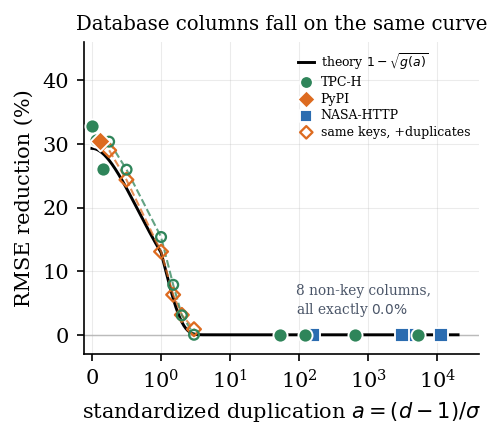
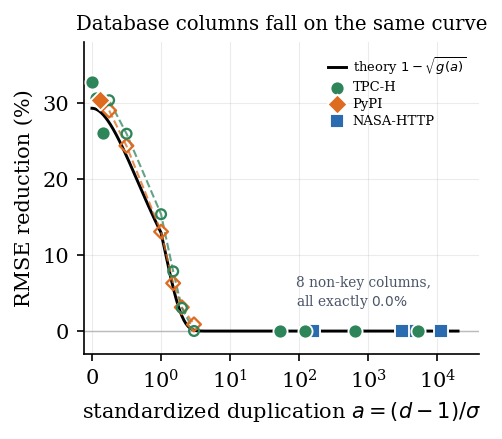
figure update 3

diff --git a/paper/make_figures.py b/paper/make_figures.py
@@ -316,10 +316,10 @@ def fig_dbcolumns():
             y = [r["gain_pct"] for r in pts]
             ax.plot(x, y, color=colr, lw=1.0, ls="--", alpha=0.75, zorder=4)
             # (bootstrap CIs are reported per point in the text, not drawn here)
+            # no legend row: the caption already explains these open "duplicate
+            # injection" markers, and dropping the long label keeps the box small
             ax.scatter(x, y, s=22, marker=mk, facecolor="none", edgecolor=colr,
-                       linewidth=1.1, zorder=5,
-                       label="same keys, +duplicates"
-                       if col == sorted({r["column"] for r in rows})[0] else None)
+                       linewidth=1.1, zorder=5)
 
     # (the four key columns at a=0 are named in the caption; no label needed here)
     ax.annotate(f"{len(other)} non-key columns,\nall exactly $0.0\\%$",
@@ -327,15 +327,15 @@ def fig_dbcolumns():
 
     ax.set_xscale("symlog", linthresh=1, linscale=0.9)
     ax.set_xlim(-0.12, 4e4)
-    ax.set_ylim(-3, 46)
+    ax.set_ylim(-3, 38)
     ax.set_xlabel(r"standardized duplication $a=(d-1)/\sigma$")
     ax.set_ylabel("RMSE reduction (%)")
     ax.set_title("Database columns fall on the same curve", fontsize=9.5)
-    # compact box pinned into the empty upper-right corner so it clears the
-    # descending curve (its left edge otherwise sat on the a~1 knee)
-    ax.legend(fontsize=6.0, loc="upper right", framealpha=0.92,
-              markerscale=0.9, handlelength=1.3, handletextpad=0.5,
-              borderaxespad=0.35, labelspacing=0.3, borderpad=0.35)
+    # four short entries -> a small box that tucks into the top-right corner
+    # with clear air between it and the descending curve
+    ax.legend(fontsize=6.3, loc="upper right", framealpha=0.92,
+              handlelength=1.4, handletextpad=0.5, borderaxespad=0.6,
+              labelspacing=0.3)
     save(fig, "fig7_dbcolumns")
 
 
